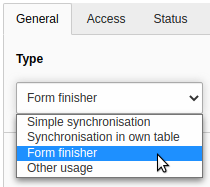
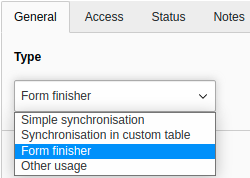
[!!!][TASK] Rename "own table" to "custom table"

diff --git a/Resources/Private/Templates/Backend/List.html b/Resources/Private/Templates/Backend/List.html
@@ -12,14 +12,14 @@
     </f:section>
 
     <f:section name="content">
-        <f:if condition="{simpleTables -> f:count()} || {ownTables -> f:count()} || {formFinisherTables -> f:count()} || {otherTables -> f:count()}">
+        <f:if condition="{simpleTables -> f:count()} || {customTables -> f:count()} || {formFinisherTables -> f:count()} || {otherTables -> f:count()}">
             <f:then>
                 <div id="jobrouter-data-table-list">
                     <f:if condition="{simpleTables -> f:count()}">
                         <f:render section="simpleTables" arguments="{_all}"/>
                     </f:if>
-                    <f:if condition="{ownTables -> f:count()}">
-                        <f:render section="ownTables" arguments="{_all}"/>
+                    <f:if condition="{customTables -> f:count()}">
+                        <f:render arguments="{_all}" section="customTables"/>
                     </f:if>
                     <f:if condition="{formFinisherTables -> f:count()}">
                         <f:render section="formFinisherTables" arguments="{_all}"/>
@@ -69,22 +69,22 @@
         </table>
     </f:section>
 
-    <f:section name="ownTables">
-        <h2><f:translate key="LLL:EXT:jobrouter_data/Resources/Private/Language/Database.xlf:tx_jobrouterdata_domain_model_table.type.synchronisation_in_own_table"/></h2>
+    <f:section name="customTables">
+        <h2><f:translate key="LLL:EXT:jobrouter_data/Resources/Private/Language/Database.xlf:tx_jobrouterdata_domain_model_table.type.synchronisation_in_custom_table"/></h2>
         <table class="table table-striped table-hover">
             <thead>
                 <tr>
                     <f:render section="defaultColumnsHeader"/>
-                    <th scope="col"><f:translate key="LLL:EXT:jobrouter_data/Resources/Private/Language/Database.xlf:tx_jobrouterdata_domain_model_table.own_table"/></th>
+                    <th scope="col"><f:translate key="LLL:EXT:jobrouter_data/Resources/Private/Language/Database.xlf:tx_jobrouterdata_domain_model_table.custom_table"/></th>
                     <th scope="col"></th>
                 </tr>
             </thead>
             <tbody>
-                <f:for each="{ownTables}" as="table">
+                <f:for as="table" each="{customTables}">
                     <f:variable name="manageJobDataTableLink">{table.connection.baseUrl}?cmd=JobData&module=jobdata&modcmd=ManageTables_EditTables&guid={table.tableGuid}</f:variable>
                     <tr>
                         <f:render section="defaultColumns" arguments="{table: table, manageJobDataTableLink: manageJobDataTableLink}"/>
-                        <td>{table.ownTable}</td>
+                        <td>{table.customTable}</td>
                         <f:render section="buttonsColumn" arguments="{table: table, manageJobDataTableLink: manageJobDataTableLink}"/>
                     </tr>
                 </f:for>

diff --git a/Classes/Synchronisation/CustomTableSynchroniser.php b/Classes/Synchronisation/CustomTableSynchroniser.php
@@ -18,13 +18,13 @@ use Doctrine\DBAL\Schema\AbstractSchemaManager;
 /**
  * @internal
  */
-final class OwnTableSynchroniser extends AbstractSynchroniser
+final class CustomTableSynchroniser extends AbstractSynchroniser
 {
     public function synchroniseTable(Table $table): bool
     {
         try {
             $datasets = $this->retrieveDatasetsFromJobRouter($table);
-            $columns = $this->getOwnTableColumns($table);
+            $columns = $this->getCustomTableColumns($table);
             $this->storeDatasets($table, $columns, $datasets);
             $this->updateSynchronisationStatus($table);
         } catch (\Exception $e) {
@@ -43,19 +43,19 @@ final class OwnTableSynchroniser extends AbstractSynchroniser
         return true;
     }
 
-    private function getOwnTableColumns(Table $table): array
+    private function getCustomTableColumns(Table $table): array
     {
-        $ownTable = $table->getOwnTable();
+        $customTable = $table->getCustomTable();
 
-        $connection = $this->connectionPool->getConnectionForTable($ownTable);
+        $connection = $this->connectionPool->getConnectionForTable($customTable);
 
         /** @var AbstractSchemaManager $schemaManager */
         $schemaManager = $connection->getSchemaManager();
 
-        return \array_keys($schemaManager->listTableColumns($ownTable));
+        return \array_keys($schemaManager->listTableColumns($customTable));
     }
 
-    private function storeDatasets(Table $table, array $ownTableColumns, array $datasets): void
+    private function storeDatasets(Table $table, array $customTableColumns, array $datasets): void
     {
         $datasetsHash = $this->hashDatasets($datasets);
 
@@ -65,29 +65,29 @@ final class OwnTableSynchroniser extends AbstractSynchroniser
             return;
         }
 
-        $ownTable = $table->getOwnTable();
+        $customTable = $table->getCustomTable();
 
-        $connection = $this->connectionPool->getConnectionForTable($ownTable);
+        $connection = $this->connectionPool->getConnectionForTable($customTable);
         $connection->setAutoCommit(false);
         $connection->beginTransaction();
 
         try {
-            $connection->truncate($ownTable);
-            $this->logger->debug('Truncated table in transaction', ['own table' => $ownTable]);
+            $connection->truncate($customTable);
+            $this->logger->debug('Truncated table in transaction', ['custom table' => $customTable]);
 
             foreach ($datasets as $dataset) {
                 $data = [];
 
                 foreach ($dataset as $column => $content) {
                     $column = \strtolower($column);
-                    if (!\in_array($column, $ownTableColumns)) {
+                    if (!\in_array($column, $customTableColumns)) {
                         continue;
                     }
 
                     $data[$column] = $content;
                 }
 
-                $connection->insert($ownTable, $data);
+                $connection->insert($customTable, $data);
 
                 $this->logger->debug('Inserted table record in transaction', $data);
             }
@@ -101,7 +101,7 @@ final class OwnTableSynchroniser extends AbstractSynchroniser
 
             $this->logger->emergency(
                 'Error while synchronising, rollback',
-                ['table uid' => $table->getUid(), 'own table' => $ownTable, 'message' => $e->getMessage()]
+                ['table uid' => $table->getUid(), 'custom table' => $customTable, 'message' => $e->getMessage()]
             );
 
             throw new SynchronisationException($e->getMessage(), 1567799062, $e);

diff --git a/Configuration/TCA/tx_jobrouterdata_domain_model_table.php b/Configuration/TCA/tx_jobrouterdata_domain_model_table.php
@@ -54,8 +54,8 @@ return [
                         \Brotkrueml\JobRouterData\Domain\Model\Table::TYPE_SIMPLE,
                     ],
                     [
-                        \Brotkrueml\JobRouterData\Extension::LANGUAGE_PATH_DATABASE . ':tx_jobrouterdata_domain_model_table.type.synchronisation_in_own_table',
-                        \Brotkrueml\JobRouterData\Domain\Model\Table::TYPE_OWN_TABLE,
+                        \Brotkrueml\JobRouterData\Extension::LANGUAGE_PATH_DATABASE . ':tx_jobrouterdata_domain_model_table.type.synchronisation_in_custom_table',
+                        \Brotkrueml\JobRouterData\Domain\Model\Table::TYPE_CUSTOM_TABLE,
                     ],
                     [
                         \Brotkrueml\JobRouterData\Extension::LANGUAGE_PATH_DATABASE . ':tx_jobrouterdata_domain_model_table.type.form_finisher',
@@ -109,16 +109,16 @@ return [
                 'eval' => 'alphanum_x,required,trim,upper',
             ],
         ],
-        'own_table' => [
+        'custom_table' => [
             'exclude' => true,
-            'label' => \Brotkrueml\JobRouterData\Extension::LANGUAGE_PATH_DATABASE . ':tx_jobrouterdata_domain_model_table.own_table',
+            'label' => \Brotkrueml\JobRouterData\Extension::LANGUAGE_PATH_DATABASE . ':tx_jobrouterdata_domain_model_table.custom_table',
             'config' => [
                 'type' => 'select',
                 'renderType' => 'selectSingle',
                 'items' => [
                     ['' => ''],
                 ],
-                'itemsProcFunc' => \Brotkrueml\JobRouterData\Service\OwnTables::class . '->getTables',
+                'itemsProcFunc' => \Brotkrueml\JobRouterData\Service\CustomTables::class . '->getTables',
                 'eval' => 'required',
             ],
         ],
@@ -213,9 +213,9 @@ return [
             description,
         '
         ],
-        (string)\Brotkrueml\JobRouterData\Domain\Model\Table::TYPE_OWN_TABLE => [
+        (string)\Brotkrueml\JobRouterData\Domain\Model\Table::TYPE_CUSTOM_TABLE => [
             'showitem' => '
-            type, connection, name, handle, table_guid, own_table,
+            type, connection, name, handle, table_guid, custom_table,
             --div--;LLL:EXT:core/Resources/Private/Language/Form/locallang_tabs.xlf:access,
             disabled,
             --div--;' . \Brotkrueml\JobRouterData\Extension::LANGUAGE_PATH_DATABASE . ':tab.status,

diff --git a/Classes/Synchronisation/SynchronisationRunner.php b/Classes/Synchronisation/SynchronisationRunner.php
@@ -30,18 +30,18 @@ class SynchronisationRunner implements LoggerAwareInterface
     /** @var SimpleTableSynchroniser */
     private $simpleTableSynchroniser;
 
-    /** @var OwnTableSynchroniser */
-    private $ownTableSynchroniser;
+    /** @var CustomTableSynchroniser */
+    private $customTableSynchroniser;
 
     private $totalNumberOfTables = 0;
     private $erroneousNumberOfTables = 0;
 
     public function __construct(
-        OwnTableSynchroniser $ownTableSynchroniser,
+        CustomTableSynchroniser $customTableSynchroniser,
         SimpleTableSynchroniser $simpleTableSynchroniser,
         TableRepository $tableRepository
     ) {
-        $this->ownTableSynchroniser = $ownTableSynchroniser;
+        $this->customTableSynchroniser = $customTableSynchroniser;
         $this->simpleTableSynchroniser = $simpleTableSynchroniser;
         $this->tableRepository = $tableRepository;
     }
@@ -74,9 +74,9 @@ class SynchronisationRunner implements LoggerAwareInterface
                 }
                 break;
 
-            case Table::TYPE_OWN_TABLE:
+            case Table::TYPE_CUSTOM_TABLE:
                 $this->totalNumberOfTables++;
-                if ($this->ownTableSynchroniser->synchroniseTable($table) === false) {
+                if ($this->customTableSynchroniser->synchroniseTable($table) === false) {
                     $this->erroneousNumberOfTables++;
                 }
                 break;

diff --git a/Classes/Domain/Model/Table.php b/Classes/Domain/Model/Table.php
@@ -24,7 +24,7 @@ use TYPO3\CMS\Extbase\Persistence\ObjectStorage;
 class Table extends AbstractEntity
 {
     public const TYPE_SIMPLE = 1;
-    public const TYPE_OWN_TABLE = 2;
+    public const TYPE_CUSTOM_TABLE = 2;
     public const TYPE_OTHER_USAGE = 3;
     public const TYPE_FORM_FINISHER = 4;
 
@@ -44,7 +44,7 @@ class Table extends AbstractEntity
     protected $tableGuid = '';
 
     /** @var string */
-    protected $ownTable = '';
+    protected $customTable = '';
 
     /**
      * @var \TYPO3\CMS\Extbase\Persistence\ObjectStorage<\Brotkrueml\JobRouterData\Domain\Model\Column>
@@ -133,14 +133,14 @@ class Table extends AbstractEntity
         $this->tableGuid = $tableGuid;
     }
 
-    public function getOwnTable(): string
+    public function getCustomTable(): string
     {
-        return $this->ownTable;
+        return $this->customTable;
     }
 
-    public function setOwnTable(string $ownTable): void
+    public function setCustomTable(string $customTable): void
     {
-        $this->ownTable = $ownTable;
+        $this->customTable = $customTable;
     }
 
     public function addColumn(Column $column): void

diff --git a/Classes/Controller/BackendController.php b/Classes/Controller/BackendController.php
@@ -93,13 +93,13 @@ final class BackendController extends ActionController
         );
 
         $simpleTables = $this->tableRepository->findAllByTypeWithHidden(Table::TYPE_SIMPLE);
-        $ownTables = $this->tableRepository->findAllByTypeWithHidden(Table::TYPE_OWN_TABLE);
+        $customTables = $this->tableRepository->findAllByTypeWithHidden(Table::TYPE_CUSTOM_TABLE);
         $formFinisherTables = $this->tableRepository->findAllByTypeWithHidden(Table::TYPE_FORM_FINISHER);
         $otherTables = $this->tableRepository->findAllByTypeWithHidden(Table::TYPE_OTHER_USAGE);
 
         $this->view->assignMultiple([
             'simpleTables' => $simpleTables,
-            'ownTables' => $ownTables,
+            'customTables' => $customTables,
             'formFinisherTables' => $formFinisherTables,
             'otherTables' => $otherTables,
         ]);

diff --git a/Classes/Service/CustomTables.php b/Classes/Service/CustomTables.php
@@ -19,7 +19,7 @@ use TYPO3\CMS\Extbase\Object\ObjectManager;
 /**
  * @internal
  */
-final class OwnTables
+final class CustomTables
 {
     /**
      * @var ConnectionPool
@@ -39,14 +39,14 @@ final class OwnTables
 
         $alreadyAssignedTables = \array_column(
             $connection->fetchAll(
-                'SELECT own_table FROM tx_jobrouterdata_domain_model_table WHERE own_table != ""'
+                'SELECT custom_table FROM tx_jobrouterdata_domain_model_table WHERE custom_table != ""'
             ),
-            'own_table'
+            'custom_table'
         );
 
         $alreadyAssignedTables = \array_diff(
             $alreadyAssignedTables,
-            [$config['row']['own_table']]
+            [$config['row']['custom_table']]
         );
 
         /** @var AbstractSchemaManager $schemaManager */

diff --git a/Tests/Unit/Domain/Model/TableTest.php b/Tests/Unit/Domain/Model/TableTest.php
@@ -81,13 +81,13 @@ class TableTest extends TestCase
     /**
      * @test
      */
-    public function getAndSetOwnTable(): void
+    public function getAndSetCustomTable(): void
     {
-        self::assertSame('', $this->subject->getOwnTable());
+        self::assertSame('', $this->subject->getCustomTable());
 
-        $this->subject->setOwnTable('some own table');
+        $this->subject->setCustomTable('some custom table');
 
-        self::assertSame('some own table', $this->subject->getOwnTable());
+        self::assertSame('some custom table', $this->subject->getCustomTable());
     }
 
     /**

diff --git a/Classes/Domain/Repository/TableRepository.php b/Classes/Domain/Repository/TableRepository.php
@@ -49,7 +49,7 @@ class TableRepository extends Repository
         $query->matching(
             $query->logicalOr([
                 $query->equals('type', Table::TYPE_SIMPLE),
-                $query->equals('type', Table::TYPE_OWN_TABLE),
+                $query->equals('type', Table::TYPE_CUSTOM_TABLE),
             ])
         );
 

diff --git a/Documentation/developer.rst b/Documentation/developer.rst
@@ -74,15 +74,14 @@ in a TYPO3 context::
    }
 
 
-.. _developer-own-table:
+.. _developer-custom-table:
 
-Own table
----------
+Custom table
+------------
 
-Synchronising a JobData table into an :ref:`own table
-<module-create-table-link-own>` has some advantages and disadvantages compared
-to the simple synchronisation type described above:
-
+Synchronising a JobData table into an :ref:`custom table
+<module-create-table-link-custom>` has some advantages and disadvantages
+compared to the simple synchronisation type described above:
 
 - Flexibility: You can filter the content of a synchronised table with specific
   SQL queries, because all JobData columns are stored in separate columns in the
@@ -108,8 +107,8 @@ But let's start:
          UNIQUE KEY jrid (jrid)
       );
 
-   The table name must start with `tx_` to be recognised as an own table in the
-   module.
+   The table name must start with `tx_` to be recognised as an custom table in
+   the module.
 
    It must also have a column `jrid`. Add a unique or primary key for the `jrid`
    column. If you want to use the table in a TCA/Extbase context, you must
@@ -123,9 +122,9 @@ But let's start:
 #. Go to the :guilabel:`Admin Tools` > :guilabel:`Maintenance` module, click on
    the :guilabel:`Analyse database` button and create the table.
 
-#. Add a table link in the :ref:`backend module <module-create-table-link-own>`.
+#. Add a table link in the :ref:`backend module <module-create-table-link-custom>`.
 
-This is the minimal setup to synchronise a JobData table into an own TYPO3
+This is the minimal setup to synchronise a JobData table into an custom TYPO3
 table. How you will use the table depends on your use case.
 
 

diff --git a/Documentation/module.rst b/Documentation/module.rst
@@ -88,10 +88,10 @@ Notes
 .. include:: table-link-columns/description.txt
 
 
-.. _module-create-table-link-own:
+.. _module-create-table-link-custom:
 
-Synchronisation in own table
-~~~~~~~~~~~~~~~~~~~~~~~~~~~~
+Synchronisation in custom table
+~~~~~~~~~~~~~~~~~~~~~~~~~~~~~~~
 
 You have to define a table yourself in an extension with the needed columns
 from the JobData table. This is the recommended way when you want to display the
@@ -99,10 +99,10 @@ data yourself, e.g. with filtering by some columns or with joins to other data.
 The synchronisation is carried out with the available :ref:`synchronisation
 command <sync-command>`.
 
-.. figure:: _images/create-table-link-own-table.png
-   :alt: Create a table link of type Synchronisation in own table
+.. figure:: _images/create-table-link-custom-table.png
+   :alt: Create a table link of type Synchronisation in custom table
 
-   Create a table link of type "Synchronisation in own table"
+   Create a table link of type "Synchronisation in custom table"
 
 The following fields are available:
 
@@ -112,7 +112,7 @@ General
 .. include:: table-link-columns/handle.txt
 .. include:: table-link-columns/name.txt
 .. include:: table-link-columns/jobdata-table-guid.txt
-.. include:: table-link-columns/own-table.txt
+.. include:: table-link-columns/custom-table.txt
 
 Access
 ''''''
